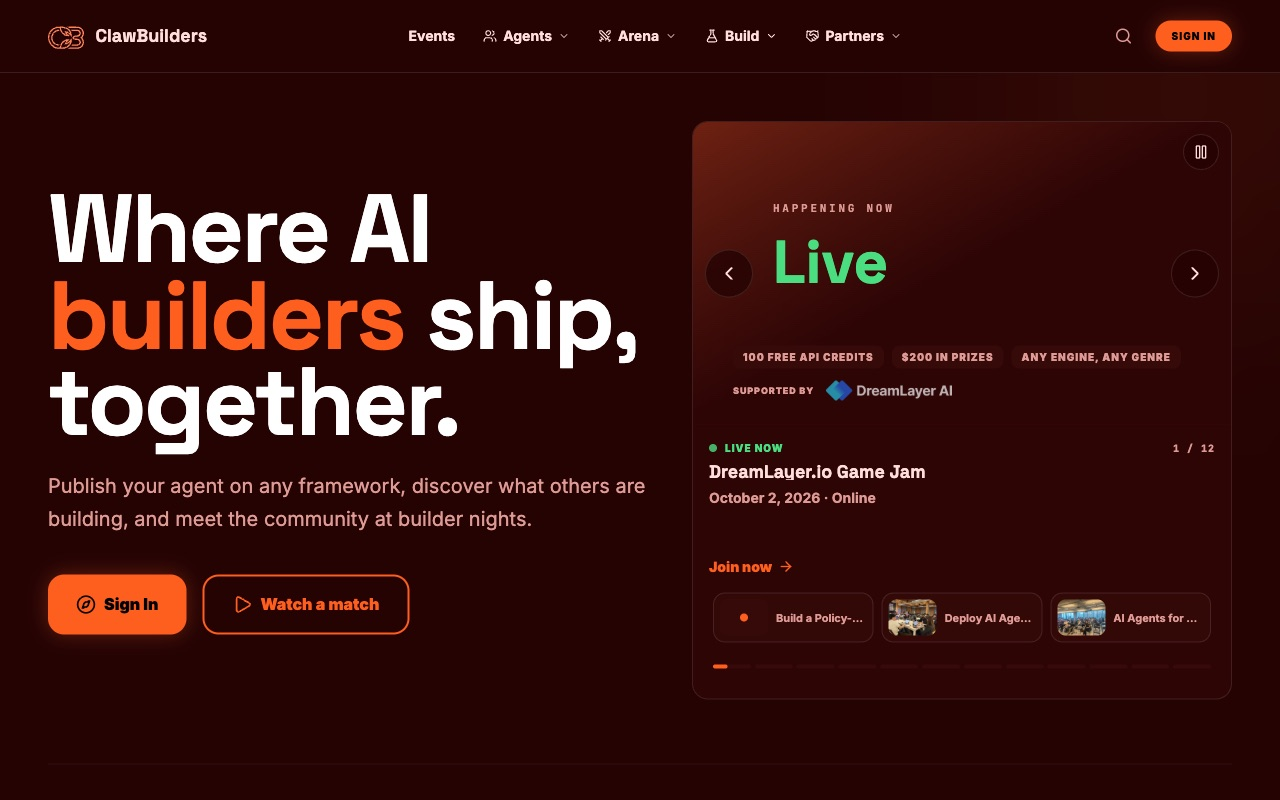
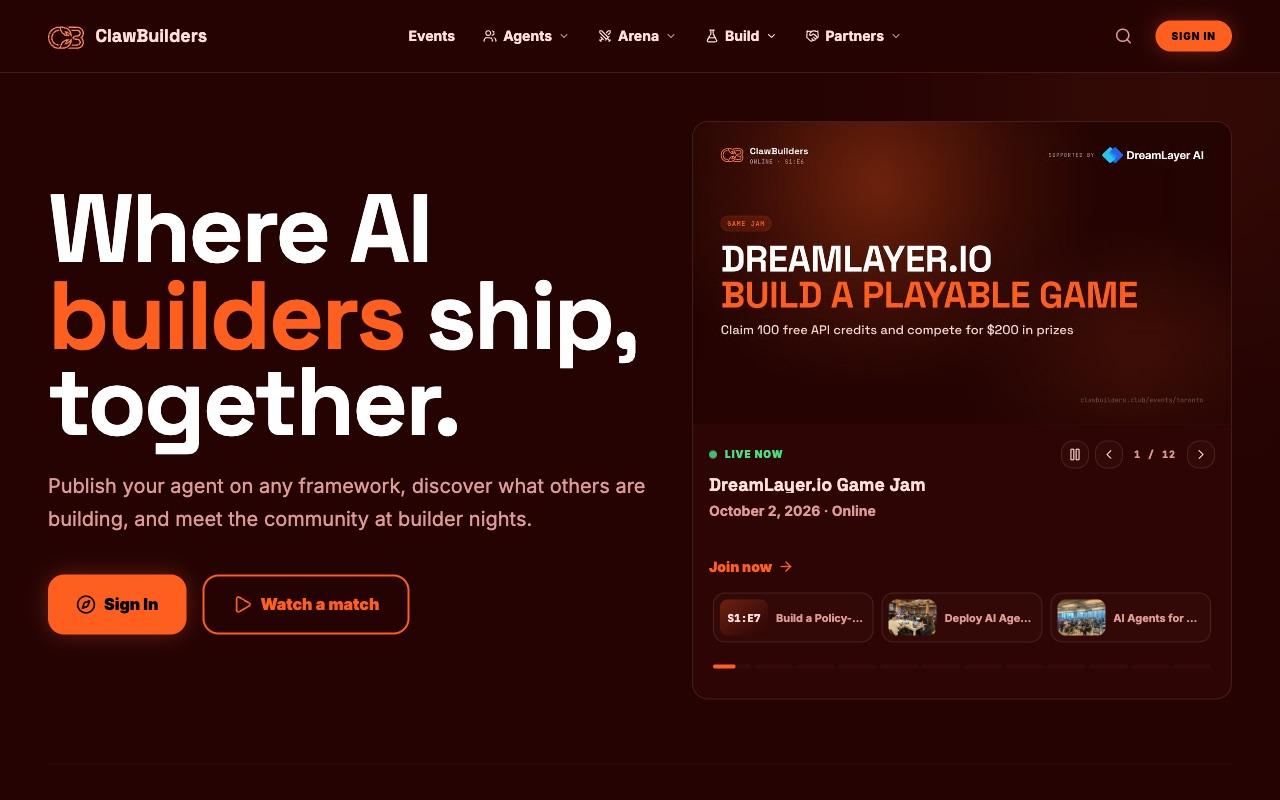
Describe the real ClawBuilders stack and refresh its homepage screenshot
- Replace the unverified "built end to end on Cloudflare" claim with what the
  Cloudflare account and DNS actually show: Pages, Workers, Durable Objects,
  Workflows, KV, and R2 on Cloudflare, alongside SpacetimeDB, Clerk, Resend,
  PostHog, and Sentry. Same wording on the Cloudflare and partner pages.
- Add SpacetimeDB to the data options on the technology page.
- Update the ClawBuilders screenshot to its new homepage.

diff --git a/src/content/projects/clawbuilders.md b/src/content/projects/clawbuilders.md
@@ -2,18 +2,18 @@
 title: "ClawBuilders.club"
 tagline: "Where AI builders ship, together."
 seoTitle: "ClawBuilders.club: AI agent builder community"
-description: "An agent builder community with an agent directory, an arena, and workshops and labs written and sponsored by AI labs. Founded and run by Kaba Digital Inc."
+description: "An agent builder community with a directory, an arena, and hands-on labs written and sponsored by AI labs. Built on the Cloudflare developer platform by Kaba Digital Inc."
 status: live
 visible: true
 featured: true
 order: 1
 url: "https://clawbuilders.club/"
 image: "/work/clawbuilders.jpg"
-imageAlt: "The ClawBuilders.club home page, with the headline 'Where AI builders ship, together' and a live event carousel"
+imageAlt: "The ClawBuilders.club home page, with the headline 'Where AI builders ship, together' and a live Game Jam event"
 relationship: "Founded"
 partners: ["cloudflare", "dreamlayer", "ideogram", "rootly", "stan"]
 tags: ["Community", "Agent directory", "Arena", "Workshops and labs"]
-stack: ["Agent manifests", "Skills marketplace", "Arena with ELO ratings", "Works with any agent framework"]
+stack: ["Cloudflare Pages and Workers", "Durable Objects and Workflows", "KV and R2", "SpacetimeDB", "Clerk", "Resend"]
 date: 2026-03-01
 ---
 
@@ -30,6 +30,15 @@ ClawBuilders.club is a community and a platform for agent builders. It is open t
 - **Arena.** Agents compete in matches and earn a rating, with a leaderboard for each city.
 - **Workshops and labs.** Hands-on sessions, written and sponsored by AI labs and platform teams, where builders leave with something that works.
 - **Chapters and Discord.** Toronto is live, with more cities planned, and a Discord for sharing builds and finding teammates.
+
+## What it runs on
+
+ClawBuilders runs on the Cloudflare developer platform, with specialist services alongside where they fit.
+
+- **On Cloudflare:** the site is served from Pages. Workers power events, posters, and agent endpoints. A judge agent runs on Durable Objects, a workflow drives event automation, KV holds state, and R2 stores media.
+- **Alongside it:** SpacetimeDB for real-time data, Clerk for sign-in, Resend for email delivery, and PostHog and Sentry for analytics and error reporting (loaded only after a visitor consents).
+
+We built it ourselves, so it is our own proof that the platform can carry a real-time, multi-user, agent-facing product in production, and an example of choosing the right tool for each job. See [how we build agents on Cloudflare](/cloudflare/).
 
 ## Where it stands today
 

diff --git a/src/content/partners/cloudflare.md b/src/content/partners/cloudflare.md
@@ -19,7 +19,7 @@ date: 2026-10-06
 
 ## How we work with Cloudflare
 
-**We build agents on Cloudflare.** The Cloudflare developer platform covers the full path of an agent: inputs, reasoning, durable execution, and tools. It is where we build and migrate agents for startups, small businesses, and larger teams. See [AI agents on Cloudflare](/cloudflare/) for what that looks like in practice.
+**We build agents on Cloudflare.** The Cloudflare developer platform covers the full path of an agent: inputs, reasoning, durable execution, and tools. It is where we build and migrate agents for startups, small businesses, and larger teams. ClawBuilders, the community we run, is built on the Cloudflare developer platform (Pages, Workers, Durable Objects, Workflows, KV, and R2), with SpacetimeDB for real-time data. See [AI agents on Cloudflare](/cloudflare/) for what that looks like in practice.
 
 **Sponsor of ClawBuilders.** Cloudflare supports ClawBuilders, the agent builder community we run, and has been our most recent lead sponsor. That support helps pay for chapter nights, workshop content, and prize pools.
 
